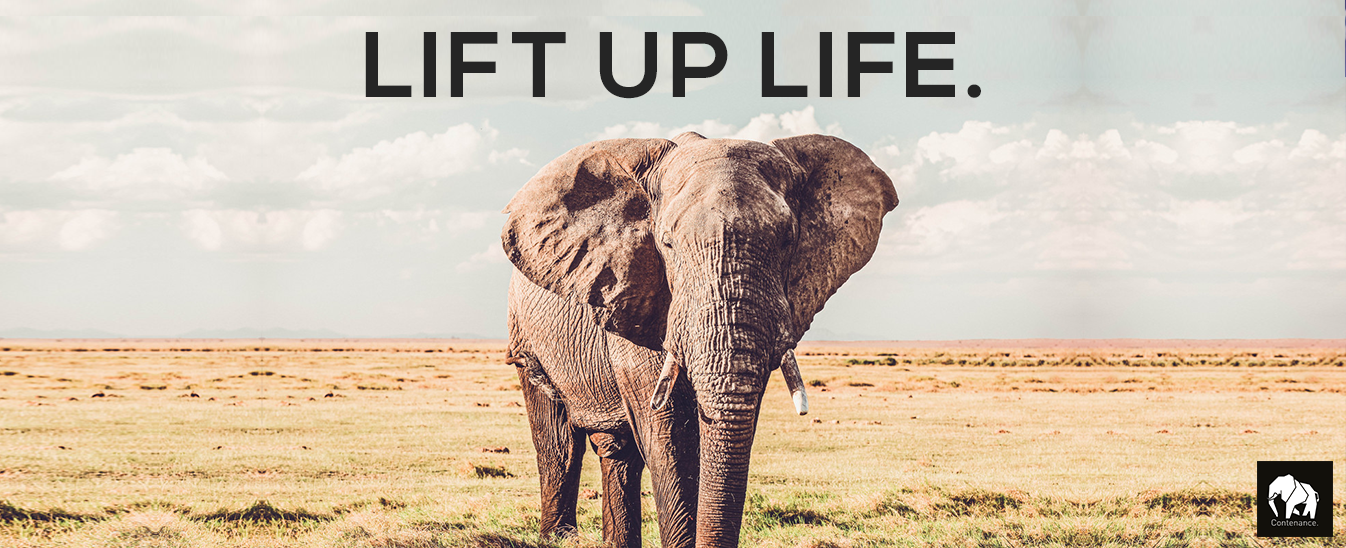
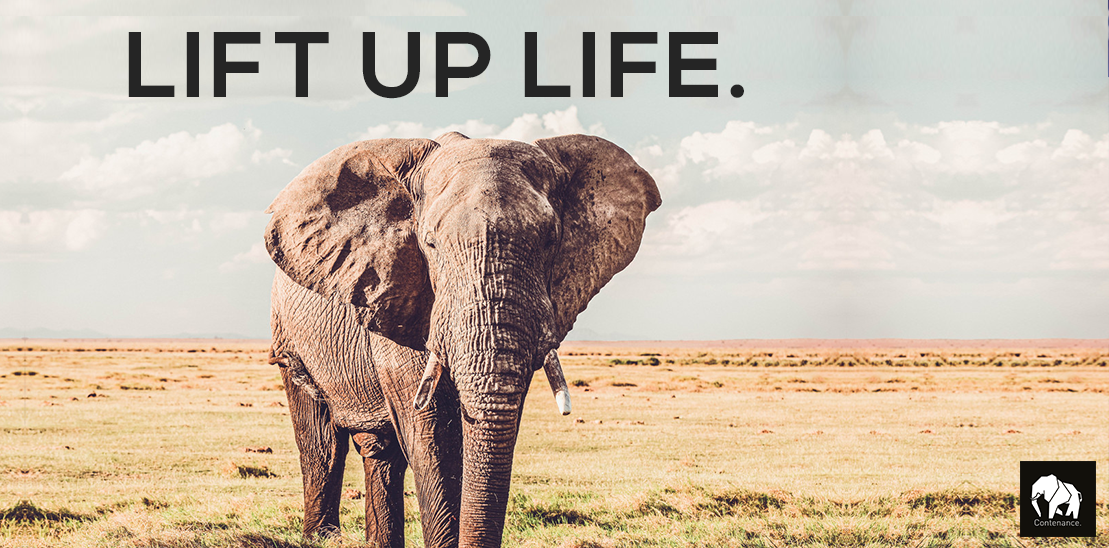
updated

diff --git a/faszienballset.html b/faszienballset.html
@@ -64,7 +64,7 @@
                             <div class="bullet-body">Ein wunderbares Mittel gegen Rücken-, Nacken-, Schulter-, Gesäß- und Hüftschmerzen! Ob zur Schmerzpunktebehandlung bei Verspannungen oder dem Lösen unangenehmer Verklebungen im Bindegewebe: Die matt-weiche Oberfläche der Bälle sorgt für mehr Haftung auf der Haut und ihr spezieller Härtegrad in der Tiefe ermöglicht eine umfangreiche und gesteigerte Intensität der Massage.</div>
                             <div class="bullet-head">&#10004; STEIGERT LEISTUNG UND REGENERATION DER MUSKELN</div>    
                             <div class="bullet-body">Regelmäßige Übungen tragen zu einer spürbaren Steigerung und Erhaltung von Elastizität und Leistungsvermögen der Muskulatur bei sowie einer aktiven und gezielten Regeneration der Muskeln. Perfekt zum Auf- und Abwärmen beim Sport oder auch zur wohltuenden Entspannung im Alltag.</div>
-                            <div class="bullet-head">&#10004; REGT STOFFWECHSEL &amp; DURCHBLUTUNG AN/div>    
+                            <div class="bullet-head">&#10004; REGT STOFFWECHSEL &amp; DURCHBLUTUNG AN</div>    
                             <div class="bullet-body-last">Im Unterschied zur Faszien-Rolle, ist mit den 3 einzigartigen Faszienball-Formen eine noch gezieltere Behandlung in den einzelnen Körpersegmenten möglich. Durch gezielte Stimulation der Gewebestrukturen wird die Durchblutung angeregt sowie die Nährstoffverteilung innerhalb des Gewebes gefördert.</div>
                         </div>
                     </div>

diff --git a/index.html b/index.html
@@ -54,7 +54,7 @@
             </div>
         </div>
             <div class="container-full">
-                <img id="image-home" src="./media/banner_4.jpg" alt="Italian Trulli">
+                <img id="image-home" src="./media/banner7.jpg" alt="Italian Trulli">
                 <div id="slogan">LIFT UP LIFE.</div> 
             </div>
         <div id = "footer-container">

diff --git a/style.css b/style.css
@@ -249,7 +249,7 @@ body {
 #image-home {
     width: 100%;
     height: auto;
-    min-height: 650px;
+    height: 550px;
     object-fit: cover;
 }
 #footer-container {
